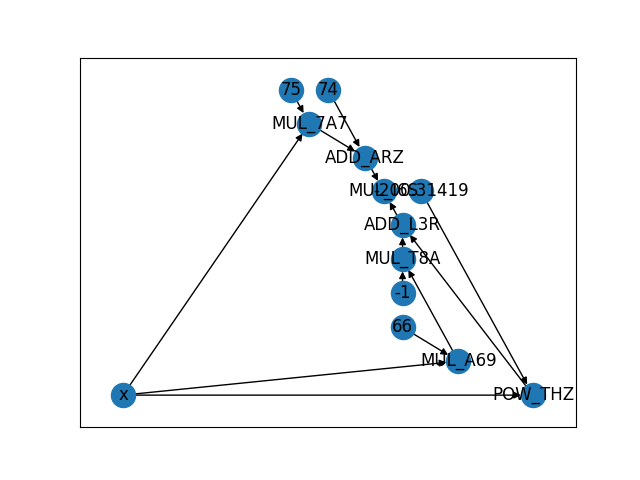
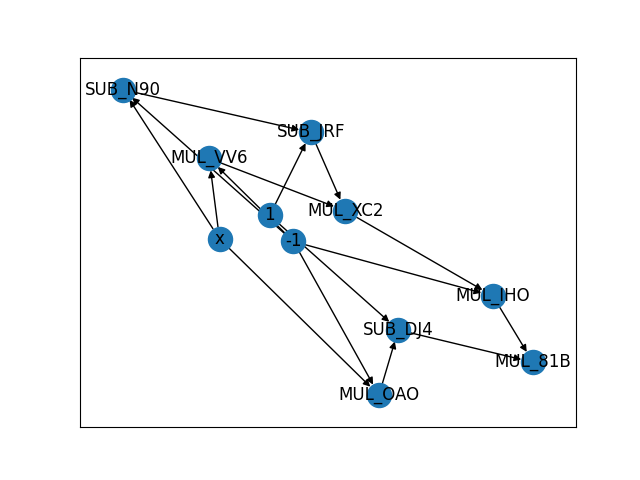
added new "const" and "var" types

diff --git a/test.py b/test.py
@@ -11,17 +11,18 @@ from CalCoolUs.preprocess import ShuntingYard, OpType
 
 myshunt = ShuntingYard()
 
-shuntres = myshunt.tokenize("( (( x^ 200.31419)) + 66 ^ x) * -( -74 + -75 * -x )")
+shuntres = myshunt.tokenize("-x*(-1-x-1)*-(-x-1)")
 print(shuntres)
-shuntres = myshunt.getPostfix("( (( x^ 200.31419)) + 66 ^ x) * -( -74 + -75 * -x )")
-exit(3)
+
+shuntres = myshunt.getPostfix("-x*(-1-x-1)*-(-x-1)")
+
 from CalCoolUs.preprocess import ASTGraph
 
 myASTGraph = ASTGraph()
 graph = myASTGraph.getAST(shuntres)
 pos = nx.planar_layout(graph, scale=10)
 nx.draw_networkx(graph, with_labels=True)
-# plt.savefig("fig.png")
+plt.savefig("fig.png")
 # plt.show(bbox_inches='tight')
 
 for n in graph.nodes:

diff --git a/CalCoolUs/ops/const.py b/CalCoolUs/ops/const.py
@@ -1,0 +1,11 @@
+from CalCoolUs.ops.op import Generic_Op
+
+class Const(Generic_Op):
+	def __init__(self, name):
+		super().__init__(name)
+
+	def getDerivative(self, *args, **kwargs):
+		return 0
+
+	def __call__(self, a):
+		return a

diff --git a/CalCoolUs/ops/var.py b/CalCoolUs/ops/var.py
@@ -1,0 +1,12 @@
+from CalCoolUs.ops.op import Generic_Op
+
+class Var(Generic_Op):
+	def __init__(self, name):
+		super().__init__(name)
+
+	def getDerivative(self, *args, **kwargs):
+		return 1
+
+	def __call__(self, a):
+		return a
+
